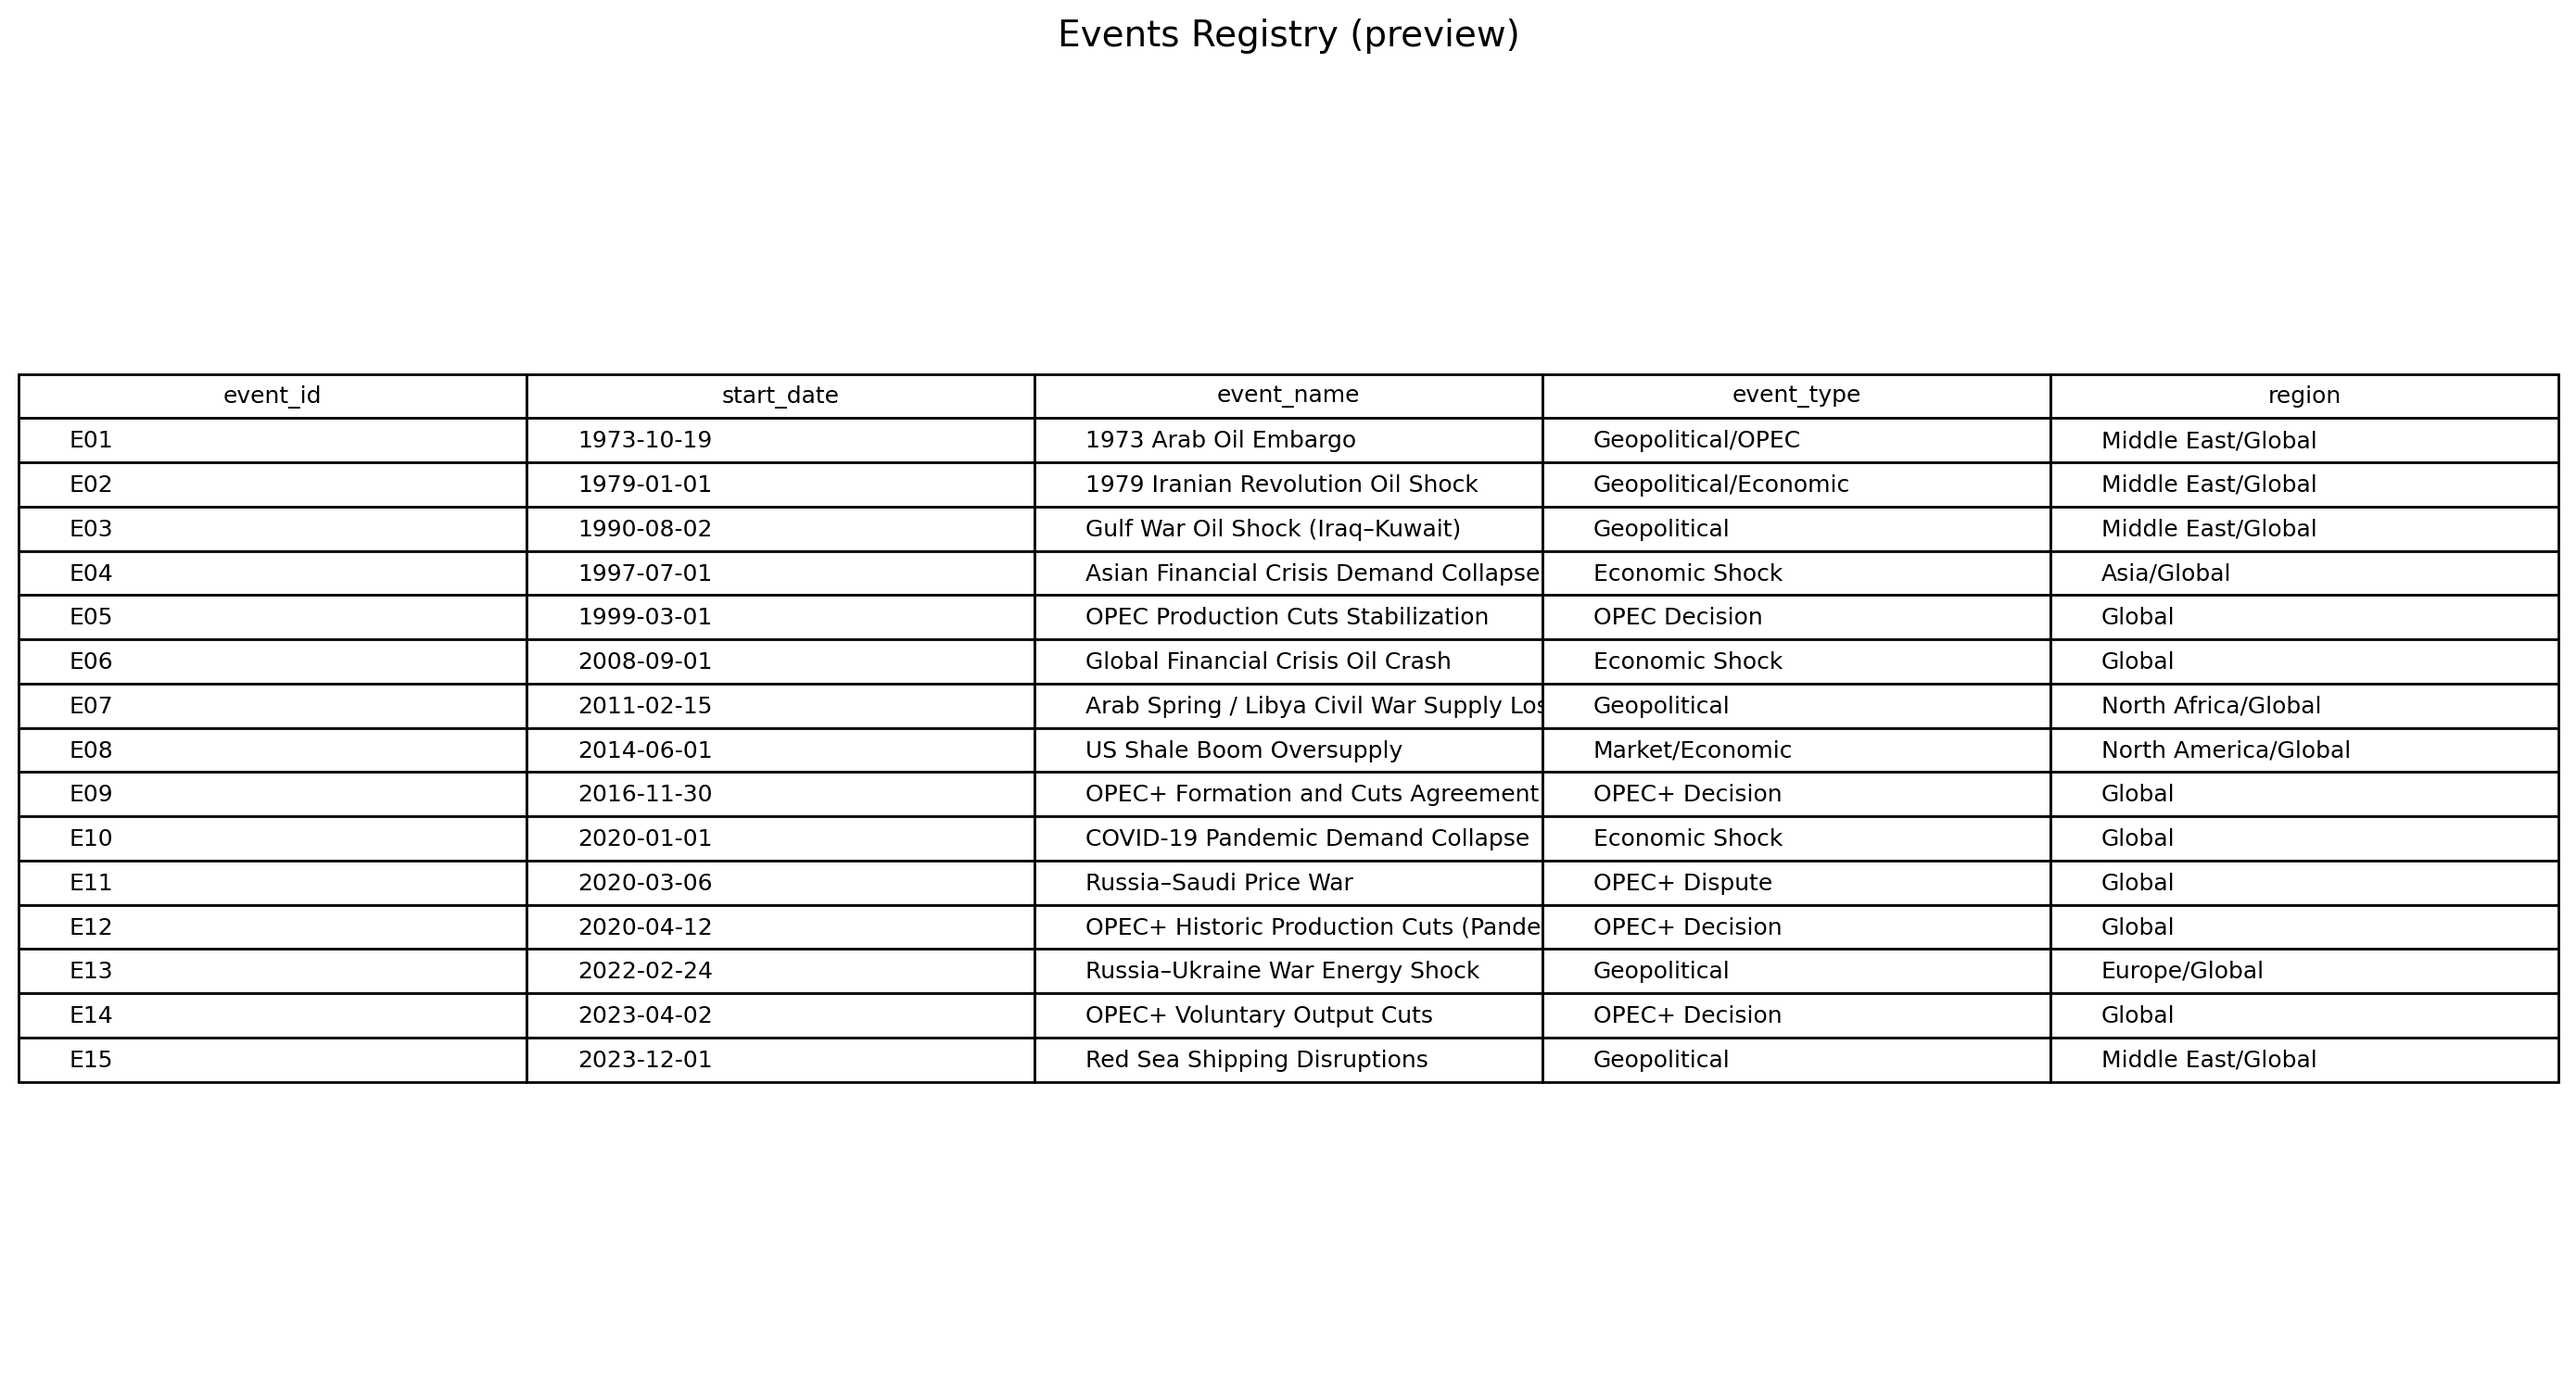
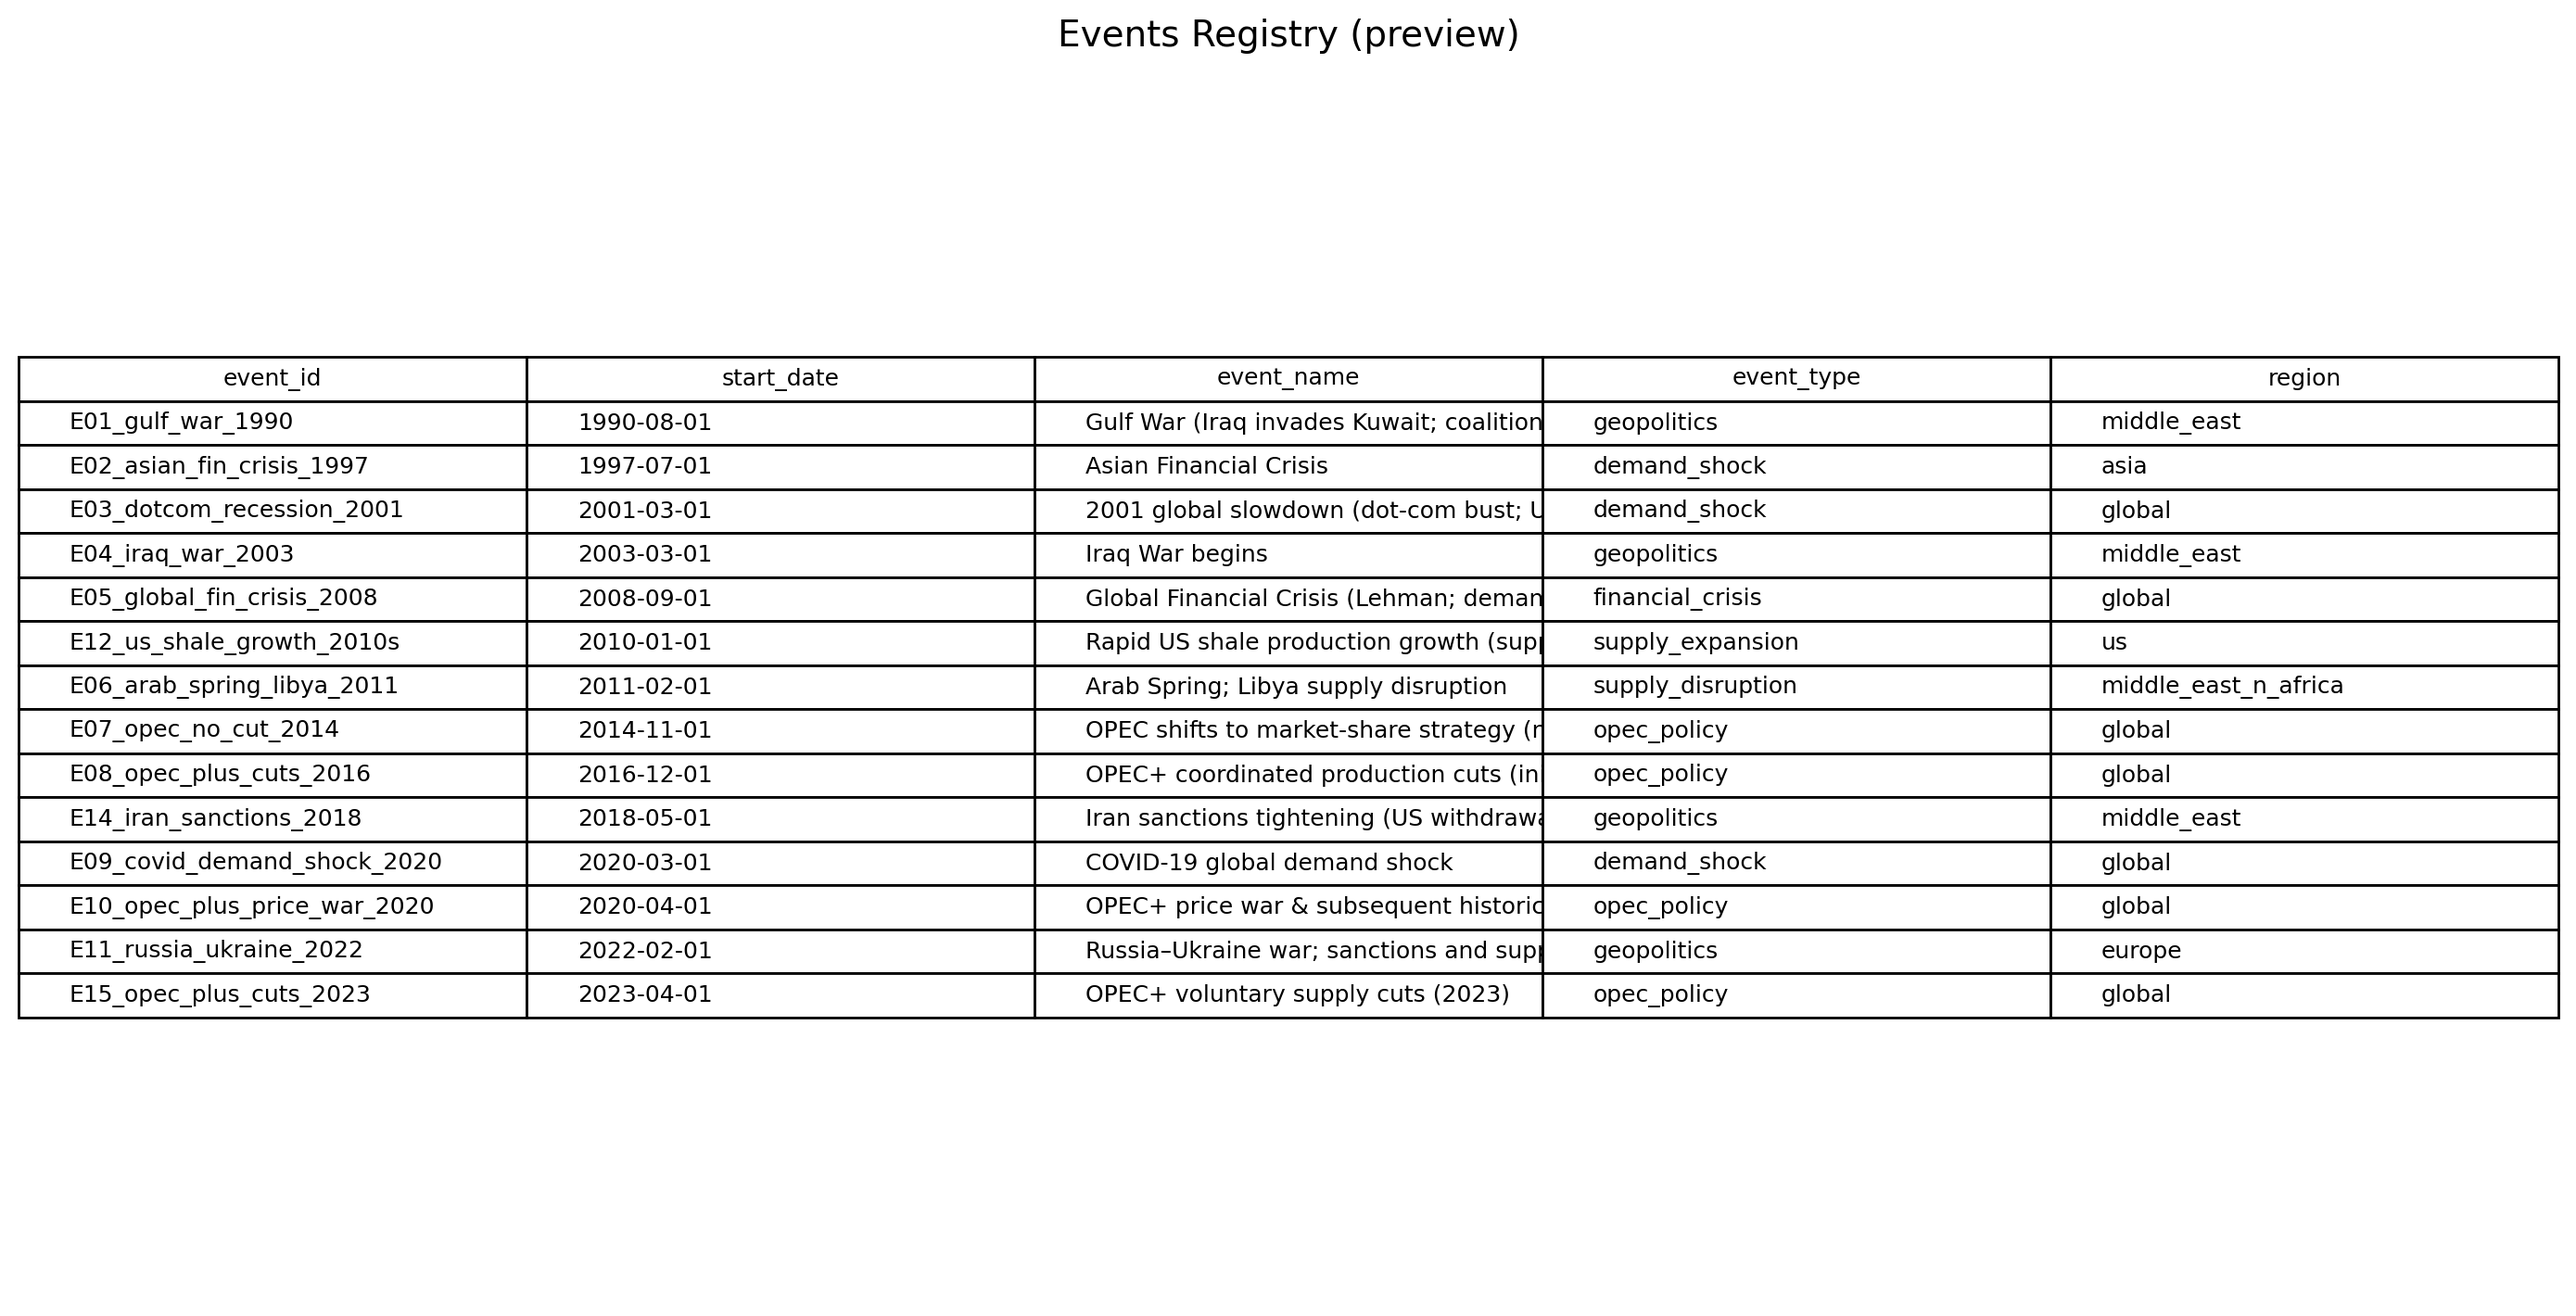
Enhance README and event validation scripts; add brent_events dataset for Task 1 analysis

Changed region(s): [[0.0, 0.2479, 0.9903, 0.7746], [0.4023, 0.0, 0.588, 0.062]]

diff --git a/scripts/04_validate_events.py b/scripts/04_validate_events.py
@@ -1,4 +1,4 @@
-""" Script to validate the events.csv file against the defined schema. """
+""" Script to validate the brent_events.csv file against the defined schema. """
 # scripts/04_validate_events.py
 from __future__ import annotations
 
@@ -17,18 +17,137 @@ from src.events.schema import validate_events_df  # noqa: E402
 from src.config import (  # noqa: E402
     ensure_dirs,
     DATA_RAW_DIR,
-    EVENTS_FILENAME,
     REPORTS_FIGURES_DIR,
 )
 
+# ---- concrete events artifact name ----
+BRENT_EVENTS_FILENAME = "brent_events.csv"
+
+
+def _norm_str(s: pd.Series) -> pd.Series:
+    return s.astype(str).str.strip().str.lower()
+
+
+def _coerce_expected_direction(x: object) -> str:
+    """
+    Map common direction labels into the allowed set: up/down/ambiguous.
+    Returns '' if x is blank/NA (so you can decide whether to keep/drop column).
+    """
+    if x is None or (isinstance(x, float) and pd.isna(x)):
+        return ""
+    v = str(x).strip().lower()
+    if v in {"up", "increase", "rises", "higher"}:
+        return "up"
+    if v in {"down", "decrease", "falls", "lower"}:
+        return "down"
+    if v in {"ambiguous", "unclear", "mixed", "unknown"}:
+        return "ambiguous"
+    # leave as-is; validate_events_df will raise if invalid
+    return v
+
+
+def _coerce_confidence(x: object) -> str:
+    """
+    Map common confidence labels into the allowed set: high/medium/low.
+    Returns '' if blank/NA.
+    """
+    if x is None or (isinstance(x, float) and pd.isna(x)):
+        return ""
+    v = str(x).strip().lower()
+    if v in {"high", "h"}:
+        return "high"
+    if v in {"medium", "med", "m"}:
+        return "medium"
+    if v in {"low", "l"}:
+        return "low"
+    return v
+
+
+def _load_and_map_brent_events(events_path: Path) -> pd.DataFrame:
+    """
+    Load the lean Brent events CSV and map it into the canonical schema required
+    by src.events.schema.validate_events_df().
+    """
+    df_raw = pd.read_csv(events_path)
+
+    rename_map = {
+        "event_date": "start_date",
+        "event_end_date": "end_date",
+        "event_title": "event_name",
+        "event_description": "description",
+        # keep both if present; we'll resolve 'source' below
+        "source_name": "source_name",
+        "source_url": "source_url",
+    }
+    df = df_raw.rename(columns=rename_map).copy()
+
+    # --- Ensure required columns exist ---
+    required_defaults = {
+        "event_id": None,          # must exist; if missing, we will error clearly
+        "event_name": "",
+        "start_date": None,        # must parse
+        "end_date": pd.NaT,
+        "event_type": "",
+        "description": "",
+        "region": "",
+        "source": "",              # must be non-blank after filling
+    }
+    for col, default in required_defaults.items():
+        if col not in df.columns:
+            df[col] = default
+
+    # If event_id missing in raw, fail early with a helpful message
+    if "event_id" not in df_raw.columns:
+        raise ValueError(
+            f"{events_path} is missing required column 'event_id'. "
+            "Add unique IDs like E01, E02, ... and rerun."
+        )
+
+    # --- Source handling (schema requires non-blank source) ---
+    # Prefer an explicit 'source' column if present, else use source_name, else 'unknown'
+    if "source" in df_raw.columns:
+        df["source"] = df_raw["source"]
+    elif "source_name" in df.columns:
+        df["source"] = df["source_name"]
+    else:
+        df["source"] = "unknown"
+
+    # Guarantee non-blank after stripping (your validator forbids blanks)
+    df["source"] = df["source"].astype(str).str.strip()
+    df.loc[df["source"] == "", "source"] = "unknown"
+
+    # --- Date parsing ---
+    df["start_date"] = pd.to_datetime(df["start_date"], errors="coerce")
+    df["end_date"] = pd.to_datetime(df["end_date"], errors="coerce")
+
+    # --- Optional columns: only keep/clean if they exist in input (avoid triggering validation unexpectedly) ---
+    if "expected_direction" in df.columns:
+        df["expected_direction"] = df["expected_direction"].map(
+            _coerce_expected_direction)
+
+    if "confidence" in df.columns:
+        df["confidence"] = df["confidence"].map(_coerce_confidence)
+
+    # Trim key string fields (helps satisfy "no blank values" checks)
+    for c in ["event_name", "event_type", "description", "region", "source"]:
+        if c in df.columns:
+            df[c] = df[c].astype(str).str.strip()
+
+    # Keep a clean column order (optional, but nice for debugging/prints)
+    front = [
+        "event_id", "event_name", "start_date", "end_date",
+        "event_type", "description", "region", "source",
+    ]
+    tail = [c for c in df.columns if c not in front]
+    df = df.loc[:, front + tail]
+
+    return df
+
 
 def _export_events_summary(validated: pd.DataFrame) -> Path:
-    """
-    Export a tidy, stakeholder-friendly events summary (CSV) to reports/figures.
-    """
+    """Export a tidy, stakeholder-friendly events summary (CSV) to reports/figures."""
     ensure_dirs()
 
-    # Keep required columns first, then any optional columns if present
     base_cols = [
         "event_id",
         "event_name",
@@ -53,13 +172,10 @@ def _export_events_summary(validated: pd.DataFrame) -> Path:
     out = validated.loc[:, cols].copy()
     out = out.sort_values(["start_date", "event_id"]).reset_index(drop=True)
 
-    # Make dates readable in CSV (YYYY-MM-DD); keep blanks for NaT end_date
     out["start_date"] = pd.to_datetime(
         out["start_date"]).dt.strftime("%Y-%m-%d")
-    if "end_date" in out.columns:
-        out["end_date"] = pd.to_datetime(
-            out["end_date"]).dt.strftime("%Y-%m-%d")
-        out["end_date"] = out["end_date"].fillna("")
+    out["end_date"] = pd.to_datetime(out["end_date"]).dt.strftime("%Y-%m-%d")
+    out["end_date"] = out["end_date"].fillna("")
 
     summary_path = REPORTS_FIGURES_DIR / "events_summary.csv"
     out.to_csv(summary_path, index=False)
@@ -67,10 +183,7 @@ def _export_events_summary(validated: pd.DataFrame) -> Path:
 
 
 def _export_events_summary_png(validated: pd.DataFrame) -> Path | None:
-    """
-    Export a simple PNG table preview for quick review by graders/stakeholders.
-    If matplotlib isn't available, skip silently (CSV will still be produced).
-    """
+    """Export a simple PNG table preview; if matplotlib not available, skip."""
     try:
         import matplotlib.pyplot as plt  # type: ignore
     except Exception:
@@ -78,18 +191,12 @@ def _export_events_summary_png(validated: pd.DataFrame) -> Path | None:
 
     ensure_dirs()
 
-    preview_cols = [
-        "event_id",
-        "start_date",
-        "event_name",
-        "event_type",
-        "region",
-    ]
+    preview_cols = ["event_id", "start_date",
+                    "event_name", "event_type", "region"]
     preview_cols = [c for c in preview_cols if c in validated.columns]
 
     preview = validated.loc[:, preview_cols].copy()
     preview = preview.sort_values(["start_date", "event_id"]).head(15)
-
     preview["start_date"] = pd.to_datetime(
         preview["start_date"]).dt.strftime("%Y-%m-%d")
 
@@ -117,20 +224,19 @@ def _export_events_summary_png(validated: pd.DataFrame) -> Path | None:
 
 
 def main() -> None:
-    """ Main function to validate the events.csv file. """
+    """Main function to validate the brent_events.csv file."""
     ensure_dirs()
 
-    events_path = DATA_RAW_DIR / EVENTS_FILENAME
+    events_path = DATA_RAW_DIR / BRENT_EVENTS_FILENAME
     if not events_path.exists():
         raise FileNotFoundError(
             f"Missing events file: {events_path}\n\n"
-            "Create it at data/raw/events.csv (recommended) with columns:\n"
-            "event_id,event_name,start_date,end_date,event_type,description,region,source\n"
-            "Then rerun: python scripts/04_validate_events.py"
+            f"Create it at data/raw/{BRENT_EVENTS_FILENAME} and rerun:\n"
+            "python scripts/04_validate_events.py"
         )
 
-    df = pd.read_csv(events_path)
-    validated = validate_events_df(df)
+    df_mapped = _load_and_map_brent_events(events_path)
+    validated = validate_events_df(df_mapped)
 
     summary_csv = _export_events_summary(validated)
     summary_png = _export_events_summary_png(validated)
@@ -141,7 +247,7 @@ def main() -> None:
     if summary_png is not None:
         print(f"[OK] Wrote: {summary_png}")
     print("\nPreview:")
-    print(validated.sort_values(['start_date', 'event_id']).head(10))
+    print(validated.sort_values(["start_date", "event_id"]).head(10))
 
 
 if __name__ == "__main__":

diff --git a/README.md b/README.md
@@ -170,18 +170,127 @@ If enabled in `scripts/04_validate_events.py`, this also exports:
 
 ---
 
-## Event Registry (Structured Dataset)
+### Events registry (Task 1 narrative support)
 
-The file `data/raw/events.csv` is a curated set of major oil-market-relevant events (10–15 items).
-It provides the structured assumptions used later to align detected change points with real-world drivers.
+We use a curated historical events registry to interpret structural breaks/change points in Brent crude prices.
 
-**Required columns (validated in code):**
+**Input (raw):**
 
-`event_id, event_name, start_date, end_date, event_type, description, region, source`
+- `data/raw/brent_events.csv`
 
-Validation logic lives in:
+This file is validated against the schema in `src/events/schema.py`.
 
-- `src/events/schema.py`
+**Validation script:**
+
+```bash
+python scripts/04_validate_events.py
+```
+
+## Event Registry & Change-Point Interpretation Dataset
+
+This project includes a **curated historical events registry** used to
+interpret detected structural breaks (change points) in Brent crude oil
+prices.\
+The dataset links **statistical regime shifts** to **real-world
+geopolitical, economic, and market drivers**, enabling meaningful
+narrative explanations.
+
+### Dataset Artifacts
+
+#### Raw Data
+
+- `data/raw/events.csv` --- primary curated registry of
+    oil-market-relevant events (10--15 major items)
+- `data/raw/brent_events.csv` --- optional/raw source table (if
+    maintained separately)
+
+#### Processed / Validated Outputs
+
+- `data/processed/brent_events_validated.csv` --- schema-validated
+    dataset generated during preprocessing
+
+#### Reporting Exports
+
+- `reports/figures/events_summary.csv` --- stakeholder-friendly
+    summary table
+- `reports/figures/events_summary.png` --- visual preview of the
+    summary
+
+### Dataset Purpose
+
+The events registry serves as a **structured reference layer** to:
+
+- Align detected change points with historical events
+- Provide causal hypotheses for price shifts
+- Support stakeholder interpretation and reporting
+- Improve reproducibility of narrative explanations
+
+### Schema (Required Columns)
+
+event_id, event_name, start_date, end_date, event_type, description,
+region, source
+
+#### Field Notes
+
+  -----------------------------------------------------------------------
+  Column                      Description
+  --------------------------- -------------------------------------------
+  event_id                    Unique identifier
+
+  event_name                  Short descriptive title
+
+  start_date                  Event start date
+
+  end_date                    Event end date (or same as start for
+                              single-day events)
+
+  event_type                  Category (geopolitical, OPEC decision,
+                              macro shock, etc.)
+
+  description                 Brief contextual explanation
+
+  region                      Geographic scope
+
+source                      Reference or citation
+  -----------------------------------------------------------------------
+
+------------------------------------------------------------------------
+
+### Date Granularity
+
+**Format:** month-start (`YYYY-MM-01`)
+
+Rationale: - Stabilizes joins with daily price data - Reduces noise from
+day-level mismatches - Improves interpretability in reports
+
+### How It Integrates With Change-Point Analysis
+
+1. Change-point detection identifies candidate break dates.
+2. Break dates are matched to nearby events (nearest or within a time
+    window).
+3. Matched events provide historical explanations for regime shifts.
+4. Results feed into reporting and stakeholder narratives.
+
+### Validation
+
+Schema enforcement and cleaning logic:
+
+src/events/schema.py
+
+Run:
+
+``` bash
+python scripts/04_validate_events.py
+```
+
+This step: - checks required columns - validates date formats - removes
+inconsistencies - outputs the processed validated file
+
+### Summary
+
+The events registry transforms **raw statistical breaks → explainable
+business insights**, making the model outputs actionable for analysts,
+policymakers, and energy stakeholders.
 
 ---
 
